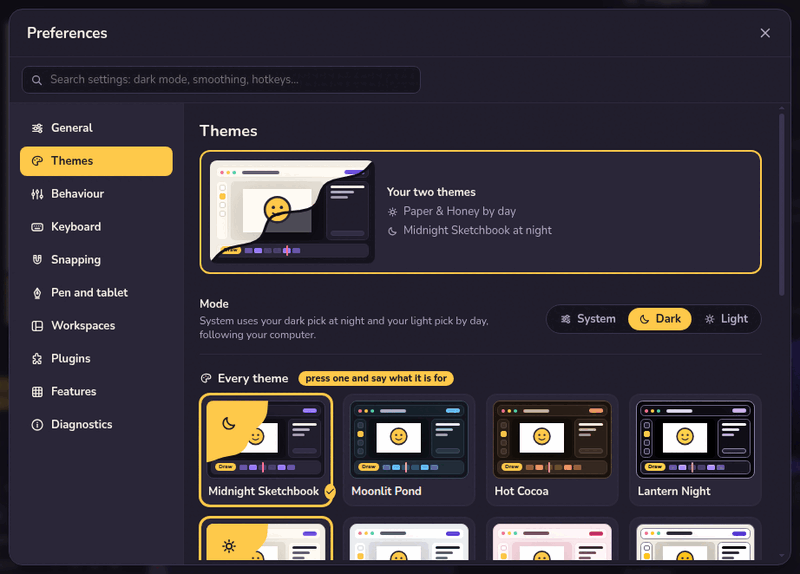
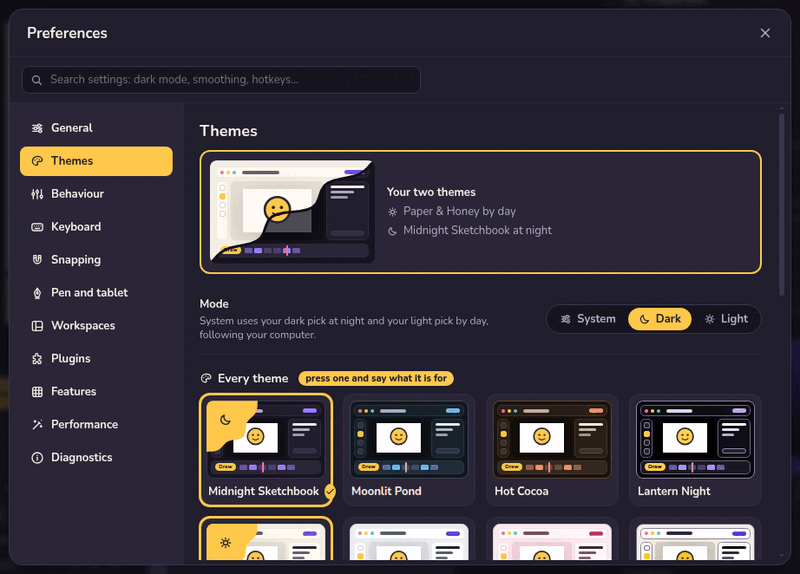
Themes: the folded corner is smaller and wigglier, so it marks the card without covering a third of the preview

Changed region(s): [[0.0312, 0.7108, 0.1562, 0.8293], [0.25, 0.6812, 0.3438, 0.7997], [0.2812, 0.8885, 0.3438, 0.9774]]

diff --git a/src/ui/ui.css b/src/ui/ui.css
@@ -3320,29 +3320,29 @@ body.ui-resizing * {
   align-items: center;
   justify-content: center;
   gap: 0;
-  width: 52px;
-  height: 52px;
+  width: 44px;
+  height: 44px;
   /* The fold's weight is up in its corner, so the icon is nudged there to sit in the middle of the yellow. */
-  padding: 0 19px 19px 0;
+  padding: 0 15px 15px 0;
   border-top-left-radius: var(--radius-small);
   background: var(--chosen-bg);
   color: var(--chosen-fg);
-  clip-path: polygon(100% 0%, 99.5% 6.8%, 99.1% 13.7%, 98.1% 20.6%, 95.9% 27.4%, 92.3% 33.6%, 87.4% 39.1%, 82.2% 44.1%, 77.5% 49.2%, 73.6% 54.6%, 70.6% 60.9%, 67.8% 67.8%, 64.4% 74.7%, 59.9% 80.6%, 54% 85%, 47.2% 87.8%, 40% 89.4%, 32.9% 90.5%, 26.2% 92%, 19.8% 94.1%, 13.3% 96.6%, 6.7% 98.8%, 0% 100%, 0% 0%);
+  clip-path: polygon(100% 0%, 99.5% 6.1%, 99.3% 12.3%, 98.2% 18.6%, 95.5% 24.5%, 91.1% 29.7%, 85.9% 34.4%, 81.3% 39%, 78.4% 44.2%, 77.1% 50.7%, 76.4% 58%, 74.8% 65.3%, 71.2% 71.2%, 65.3% 74.8%, 58% 76.4%, 50.7% 77.1%, 44.2% 78.4%, 39% 81.3%, 34.4% 85.9%, 29.7% 91.1%, 24.5% 95.5%, 18.6% 98.2%, 12.3% 99.3%, 6.1% 99.5%, 0% 100%, 0% 0%);
 }
 .th-card-badges.is-both {
-  width: 62px;
-  height: 62px;
-  padding: 0 21px 21px 0;
+  width: 54px;
+  height: 54px;
+  padding: 0 18px 18px 0;
 }
 .th-card-badge {
   display: grid;
   place-items: center;
-  width: 21px;
-  height: 21px;
+  width: 17px;
+  height: 17px;
 }
 .th-card-badge svg {
-  width: 20px;
-  height: 20px;
+  width: 16px;
+  height: 16px;
 }
 .th-card-pick {
   position: relative;

diff --git a/src/ui/themes/ThemesPage.tsx b/src/ui/themes/ThemesPage.tsx
@@ -63,12 +63,12 @@ function ThemeCard({ theme, use, onPick, onCopy, onEdit }: { theme: Theme; use: 
           <span className={`th-card-badges${use.day && use.night ? ' is-both' : ''}`} aria-hidden="true">
             {use.day && (
               <span className="th-card-badge is-day" title="Your theme by day">
-                <Icon name="sun" size={20} />
+                <Icon name="sun" size={16} />
               </span>
             )}
             {use.night && (
               <span className="th-card-badge is-night" title="Your theme at night">
-                <Icon name="moon" size={20} />
+                <Icon name="moon" size={16} />
               </span>
             )}
           </span>

diff --git a/brand/ab/themes-pick/note.md b/brand/ab/themes-pick/note.md
@@ -12,3 +12,5 @@
   sun or moon on it is bigger and sits where the fold is widest.
 - **earmark-wiggly-dark / earmark-wiggly-light**: a wiggle along the fold, and the sun or moon bigger and sitting in
   the middle of the yellow rather than tucked into the corner.
+- **earmark-small-dark**: smaller again (44 px) and wigglier, so it marks the card without taking a third of the
+  preview with it.
